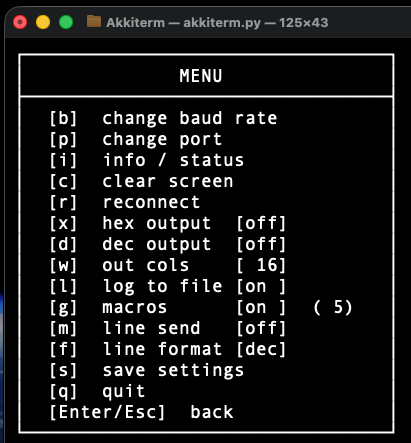
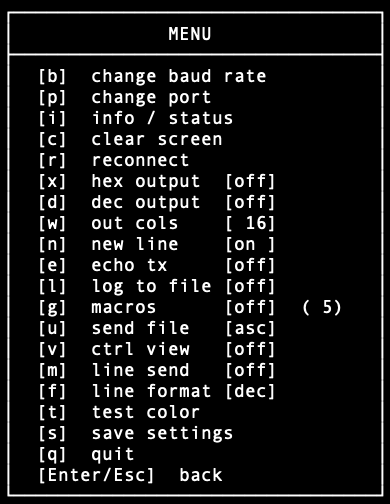
added up to date screenshots

diff --git a/README.md b/README.md
@@ -49,6 +49,10 @@ Now in color:
 
 ![menu](images/colortest.png)  
 
+And with control characters:
+
+![menu](images/controlchars.png)  
+
 [...]
 
 
@@ -176,6 +180,9 @@ Three example files are provided in the "examples" directory.
 
 ---
 ## NEWS
+
+### CHANGES 2026/04/10:
+    - added updated screenshots
 
 ### CHANGES 2026/04/08:
     - added optional visualization of ASCII control characters also for TX echo
